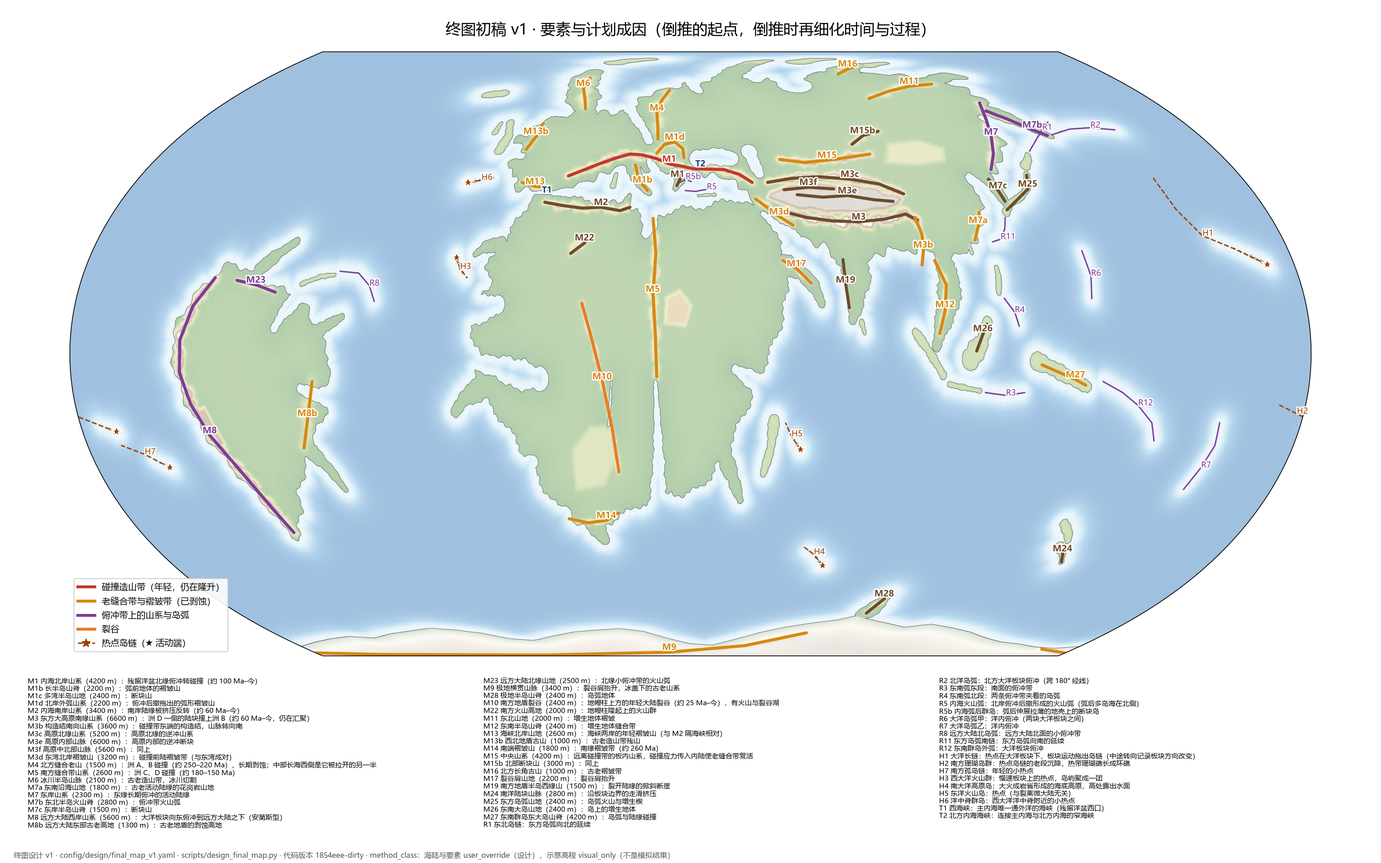
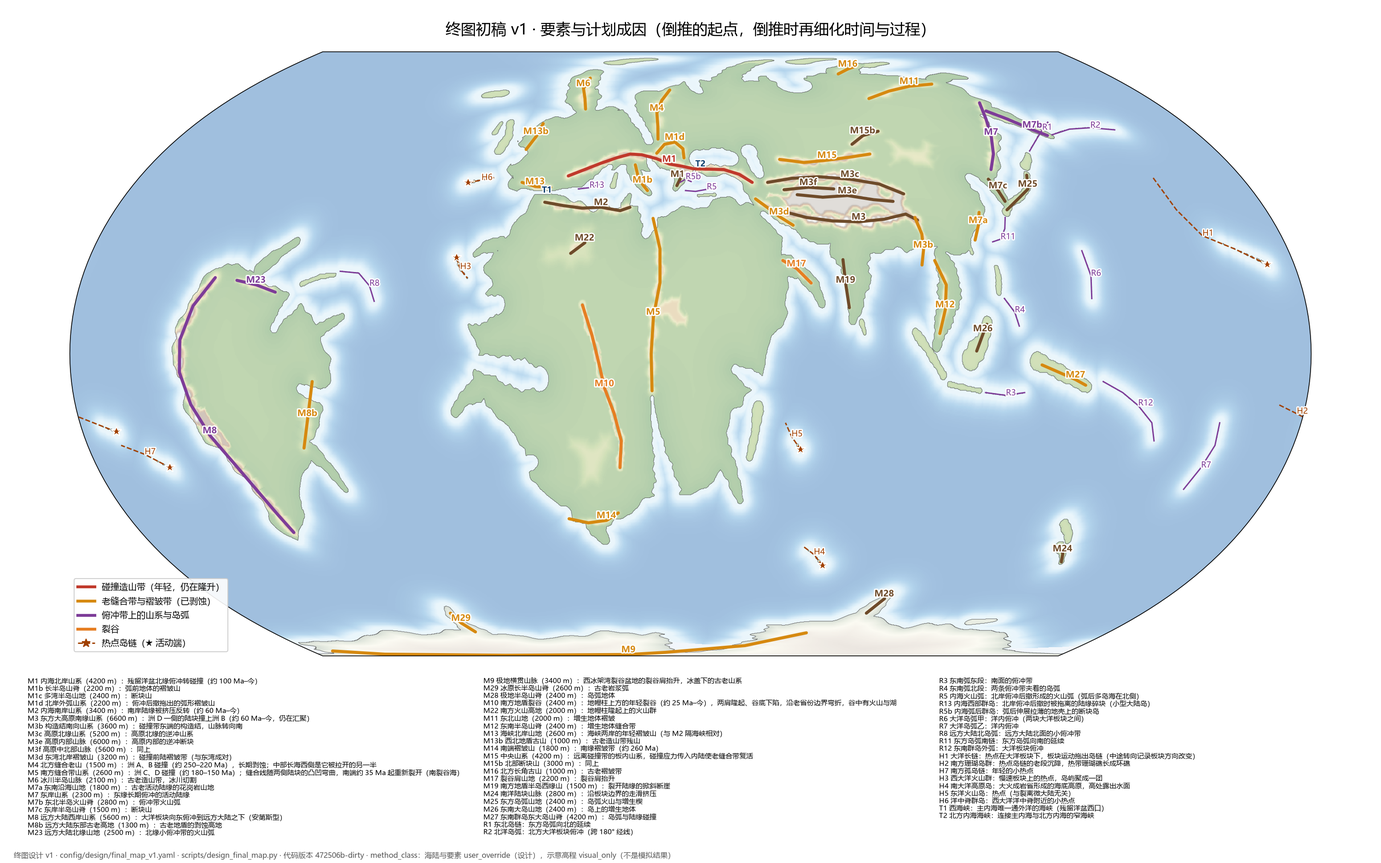
U22 终图初稿 v1 第二轮：南方大陆裂谷改楔形、极地冰架湾、高原与盆地、内海西段，提交用户审看
- 南裂谷海由直缝改为沿缝合带弯折、向南张开的楔形（剪刀式张开）；洲 D 正对裂离微大陆的海岸改为内凹
- 裂谷画成"两肩隆起、谷底下陷"的剖面，两个雁列湖落在谷底；湖只画在图上，不挖陆地掩膜
- 高原轮廓起伏加大、按成因分过渡宽度；新增 4 个盆地与 1 个火山隆起（示意高程 visual_only）
- 极地大陆：海岸加起伏，两个喇叭口冰架湾（冰架前缘平直），新增半岛与冰盖岛
- 内海西段加两个湾和一串西部群岛；标注可指定位置，01/05 图不再压字
- A 层 7 项全部达标（海洋 71.7%，主大陆占陆地 74%，主内海 4.41 Mkm²）

diff --git a/scripts/design_final_map.py b/scripts/design_final_map.py
@@ -123,12 +123,26 @@ def ellipse_mask(grid: LatLonGrid, center_v, along_v, a_km, b_km) -> np.ndarray:
     return m
 
 
-def polar_mask(grid: LatLonGrid, coast) -> np.ndarray:
-    """按经度给出海岸纬度的极地大陆（围绕南极一圈，周期插值）。"""
+def smooth_noise(n: int, step_km: float, amps, sigmas, rng: np.random.Generator) -> np.ndarray:
+    """环形的平滑随机起伏（白噪声做高斯平滑后按标准差归一，再乘幅度）。不用周期正弦：等距的波纹和直线一样假。"""
+    freq = np.fft.rfftfreq(n, d=step_km)
+    off = np.zeros(n)
+    for a, sigma in zip(amps, sigmas):
+        x = np.fft.irfft(np.fft.rfft(rng.normal(size=n)) * np.exp(-0.5 * (2 * np.pi * freq * sigma) ** 2), n)
+        off += a * x / (x.std() + 1e-12)
+    return off
+
+
+def polar_mask(grid: LatLonGrid, coast, rng: np.random.Generator | None = None, amps=(0.0, 0.0)) -> np.ndarray:
+    """按经度给出海岸纬度的极地大陆（围绕南极一圈，周期插值）。
+    rng 给出时海岸纬度加平滑随机起伏（amps 为 km，两档尺度约 220 与 80 km），去掉按 10° 插值的光滑弧线。"""
     c = np.asarray(sorted(coast), float)
     lon = np.concatenate([c[:, 0] - 360, c[:, 0], c[:, 0] + 360])
     lat = np.tile(c[:, 1], 3)
     coast_lat = np.interp(grid.lon, lon, lat)
+    if rng is not None and max(amps) > 0:
+        km_per_col = KM_PER_DEG * np.cos(np.radians(np.abs(coast_lat).mean())) * 360.0 / grid.nx
+        coast_lat = coast_lat + smooth_noise(grid.nx, km_per_col, amps, (220.0, 80.0), rng) / KM_PER_DEG
     return grid.lat[:, None] <= coast_lat[None, :]
 
 
@@ -162,9 +176,11 @@ def meander(line, amp_km: float, rng: np.random.Generator):
     return np.c_[lon, lat].tolist()
 
 
-def spine_mask(grid: LatLonGrid, line, widths, rng: np.random.Generator | None = None) -> np.ndarray:
+def spine_mask(grid: LatLonGrid, line, widths, rng: np.random.Generator | None = None,
+               flat_start: bool = False) -> np.ndarray:
     """沿中轴线、宽度沿轴分段线性渐变的形状（端部为圆头）。
-    rng 给出时宽度沿轴有两档缓慢起伏（波长 500–900 km 与 180–320 km，幅度约 11% 与 7%），避免完全光滑。"""
+    rng 给出时宽度沿轴有两档缓慢起伏（波长 500–900 km 与 180–320 km，幅度约 11% 与 7%），避免完全光滑。
+    flat_start：起点一端平切（不要圆头），用于冰架的前缘冰崖。"""
     p, s = densify(line, 8.0)
     L = max(s[-1], 1.0)
     half_max = float(np.max(widths)) * 0.6
@@ -185,6 +201,8 @@ def spine_mask(grid: LatLonGrid, line, widths, rng: np.random.Generator | None =
         w = w * (1 + 0.11 * np.sin(2 * np.pi * t / l1 + f1) + 0.07 * np.sin(2 * np.pi * t / l2 + f2))
     inside = np.zeros(xyz.shape[0], bool)
     inside[ok] = chord_km(d[ok]) <= w / 2
+    if flat_start:
+        inside[ok] &= idx[ok] > 0
     m[rows] = inside.reshape(rows.size, grid.nx)
     return m
 
@@ -195,14 +213,9 @@ def meander_polygon(poly, rng: np.random.Generator, amps=(70.0, 30.0), protect=(
     loop = list(poly) + [poly[0]]
     p, s = densify(loop, 25.0)
     p, s = p[:-1], s[:-1]
-    # 沿周长的平滑随机起伏（白噪声做环形高斯平滑，不是周期正弦：等距的波纹和直线一样假）
+    # 沿周长的平滑随机起伏
     n = len(p)
-    step = (s[-1] + 25.0) / n
-    freq = np.fft.rfftfreq(n, d=step)
-    off = np.zeros(n)
-    for a, sigma in zip(amps, (220.0, 80.0)):
-        x = np.fft.irfft(np.fft.rfft(rng.normal(size=n)) * np.exp(-0.5 * (2 * np.pi * freq * sigma) ** 2), n)
-        off += a * x / (x.std() + 1e-12)
+    off = smooth_noise(n, (s[-1] + 25.0) / n, amps, (220.0, 80.0), rng)
     for lon, lat, r in protect:
         d = np.arccos(np.clip(p @ unit(lon, lat), -1, 1)) * R_KM
         x = np.clip(d / r, 0, 1)
@@ -239,13 +252,16 @@ def build(design: dict, grid: LatLonGrid, seed: int = 1):
         m = lonlat_mask(grid, poly)
         land |= m
         assign(m, b["continent"])
-    pol = polar_mask(grid, design["polar"]["coast"])
+    pol = polar_mask(grid, design["polar"]["coast"], feature_rng("polar"),
+                     design["polar"].get("meander_km", [0, 0]))
     land |= pol
     cont[pol] = "polar"
     for pn in design.get("peninsulas", []):
         m = spine_mask(grid, pn["line"], pn["width_km"], feature_rng(pn["id"])) & ~land
         land |= m
         assign(m, pn["continent"])
+        if pn["continent"] == "polar":     # 极地大陆的半岛同样盖着冰
+            pol |= m
 
     sea_masks = {}
     for g in design.get("gulfs", []):
@@ -263,6 +279,15 @@ def build(design: dict, grid: LatLonGrid, seed: int = 1):
         land &= ~m
     cont[~land] = ""
 
+    # 湖：不从陆地掩膜里挖掉（与地球数据口径一致：Natural Earth 的陆地含坦噶尼喀湖这类湖），只在图上画成水面
+    lake = np.zeros(shape, bool)
+    for lk in design.get("lakes", []):
+        lake |= spine_mask(grid, lk["line"], lk["width_km"], feature_rng(lk["id"])) & land
+    # 冰架：海湾里浮在海上的冰（掩膜里是海，图上画成冰）
+    shelf = np.zeros(shape, bool)
+    for sh in design.get("ice_shelves", []):
+        shelf |= spine_mask(grid, sh["line"], sh["width_km"], feature_rng(sh["id"]), flat_start=True) & ~land
+
     island_peak = np.zeros(shape)
     symbols = []        # 不进掩膜的环礁、海山（只画符号）
     for isl in design.get("islands", []):
@@ -275,6 +300,8 @@ def build(design: dict, grid: LatLonGrid, seed: int = 1):
             land |= m
             island_peak[m] = np.maximum(island_peak[m], 900.0)
             cont[m] = "island"
+            if isl.get("ice"):          # 冰盖覆盖的岛：图上画成冰
+                pol |= m
             continue
         p, s = densify(isl["line"])
         L = s[-1]
@@ -313,7 +340,7 @@ def build(design: dict, grid: LatLonGrid, seed: int = 1):
                     symbols.append({"lon": float(lon_c), "lat": float(lat_c), "kind": "seamount", "id": isl["id"]})
                 t += (150.0 if t < young else 260.0) * rng.uniform(0.8, 1.2)
     return {"land": land, "cont": cont, "polar": pol & land, "island_peak": island_peak,
-            "symbols": symbols, "sea_masks": sea_masks}
+            "symbols": symbols, "sea_masks": sea_masks, "lake": lake, "shelf": shelf & ~land}
 
 
 def elevation(design: dict, grid: LatLonGrid, b: dict) -> np.ndarray:
@@ -324,16 +351,30 @@ def elevation(design: dict, grid: LatLonGrid, b: dict) -> np.ndarray:
     elev = np.zeros(grid.shape)
     base = 120.0 + 380.0 * (1 - np.exp(-d_land / 500.0))
     elev[land] = base[land]
-    # 高原（边缘 150 km 内渐变）
-    for p in design.get("plateaus", []):
-        m = lonlat_mask(grid, meander_polygon(p["poly"], feature_rng(p["id"]), (60.0, 25.0))) & land
+    def region(p, default_amps):
+        """高原、盆地的范围（轮廓加平滑起伏）与离边缘的平滑渐变（0 -> 1，ramp_km 内，smoothstep）。"""
+        amps = p.get("meander_km", default_amps)
+        m = lonlat_mask(grid, meander_polygon(p["poly"], feature_rng(p["id"]), amps)) & land
         if not m.any():
-            continue
+            return m, None
         d_in = np.nan_to_num(distance_to_set_km(grid, ~m, query=m))
-        ramp = np.clip(d_in / 150.0, 0, 1)
-        elev[m] = np.maximum(elev[m], base[m] + (p["height_m"] - base[m]) * ramp[m])
-    # 山脉（高斯形横剖面，取最大值叠加）
+        x = np.clip(d_in / float(p.get("ramp_km", 150.0)), 0, 1)
+        return m, x * x * (3 - 2 * x)
+
+    # 高原（ramp_km 小 = 陡崖围着的平顶，大 = 动力地形那样的宽缓穹隆）
+    for p in design.get("plateaus", []):
+        m, ramp = region(p, [120.0, 45.0])
+        if ramp is not None:
+            elev[m] = np.maximum(elev[m], base[m] + (p["height_m"] - base[m]) * ramp[m])
+    # 盆地（克拉通内部沉降、前陆盆地：比周围低平）
+    for p in design.get("basins", []):
+        m, ramp = region(p, [150.0, 50.0])
+        if ramp is not None:
+            low = np.minimum(elev[m], p["height_m"])
+            elev[m] = elev[m] + (low - elev[m]) * ramp[m]
+    # 山脉（高斯形横剖面，取最大值叠加）；profile: rift 的裂谷是两侧肩部隆起、中间谷底下陷
     ridge = np.zeros(grid.shape)
+    trough = np.zeros(grid.shape)
     for mt in design.get("mountains", []):
         rng = feature_rng(mt["id"])
         wmax = float(np.max(mt["width_km"]))
@@ -353,10 +394,22 @@ def elevation(design: dict, grid: LatLonGrid, b: dict) -> np.ndarray:
                               + 0.08 * np.sin(2 * np.pi * t / (l2 * 0.8) + f[3]))
         h *= 0.55 + 0.45 * np.sin(np.pi * np.clip(t / L, 0, 1)) ** 0.35
         r = np.zeros(int(q.sum()))
-        r[ok] = h * np.exp(-(chord_km(dc[ok]) / (0.45 * w)) ** 2)
+        dk = chord_km(dc[ok])
+        if mt.get("profile") == "rift":
+            r[ok] = h * np.exp(-((dk - 0.30 * w) / (0.15 * w)) ** 2)
+            g = np.zeros(int(q.sum()))
+            g[ok] = np.exp(-(dk / (0.11 * w)) ** 2)
+            trough[q] = np.maximum(trough[q], g)
+        else:
+            r[ok] = h * np.exp(-(dk / (0.45 * w)) ** 2)
         cur = ridge[q]
         ridge[q] = np.maximum(cur, r)
     elev[land] = np.maximum(elev[land], base[land] + ridge[land])
+    elev[land] *= 1 - 0.5 * trough[land]          # 裂谷谷底约为两肩外侧地面的一半高
+    # 湖面比周围略低（示意），图上画成水面
+    lake = b.get("lake")
+    if lake is not None and lake.any():
+        elev[lake] = np.maximum(5.0, 0.8 * elev[lake])
     # 极地冰盖：冰面高程随离岸距离升高（冰下山脉略微抬升冰面）
     pol = b["polar"]
     ice = 3300.0 * (1 - np.exp(-d_land / 450.0)) + 0.3 * ridge
@@ -394,6 +447,12 @@ def label_points(design: dict):
     for g in design.get("gulfs", []):
         p = np.asarray(g["line"], float)
         out.append(("sea", g["id"], g["name"], *p[len(p) // 2]))
+    for g in design.get("lakes", []):
+        p = np.asarray(g["line"], float)
+        out.append(("lake", g["id"], g["name"], *p[len(p) // 2]))
+    for g in design.get("ice_shelves", []):
+        p = np.asarray(g["line"], float)
+        out.append(("shelf", g["id"], g["name"], *p[len(p) // 2]))
     for s in design.get("seas", []):
         p = np.asarray(s["poly"], float)
         out.append(("sea", s["id"], s["name"], *p.mean(axis=0)))
@@ -406,10 +465,20 @@ def label_points(design: dict):
     for p_ in design.get("plateaus", []):
         p = np.asarray(p_["poly"], float)
         out.append(("plateau", p_["id"], p_["name"], *p.mean(axis=0)))
+    for p_ in design.get("basins", []):
+        p = np.asarray(p_["poly"], float)
+        out.append(("basin", p_["id"], p_["name"], *p.mean(axis=0)))
     for i in design.get("islands", []):
         p = np.asarray(i.get("poly", i.get("line")), float)
         out.append((i["type"], i["id"], i["name"], *(p.mean(axis=0) if "poly" in i else p[len(p) // 2])))
-    return out
+    # yaml 里写了 label_at 的要素用指定位置（避开拥挤处）
+    at = {}
+    for key in ("peninsulas", "gulfs", "lakes", "ice_shelves", "seas", "straits", "mountains", "plateaus",
+                "basins", "islands"):
+        for it in design.get(key, []):
+            if "label_at" in it:
+                at[it["id"]] = it["label_at"]
+    return [(k, f, n, *at[f]) if f in at else (k, f, n, lo, la) for k, f, n, lo, la in out]
 
 
 def figures(design: dict, grid: LatLonGrid, b: dict, elev: np.ndarray, metrics: dict, fields: dict, out: Path,
@@ -443,6 +512,8 @@ def figures(design: dict, grid: LatLonGrid, b: dict, elev: np.ndarray, metrics: 
         pol = b["polar"]
         shade = rgb[pol].mean(axis=1, keepdims=True)
         rgb[pol] = 0.25 * rgb[pol] + 0.75 * np.clip(0.55 + 0.6 * shade, 0, 1)   # 冰盖：偏白
+        rgb[b["shelf"]] = np.array([0.88, 0.93, 0.97])                          # 冰架：浮在海上的冰
+        rgb[b["lake"]] = np.array([0.36, 0.60, 0.82])                           # 湖面
         return rgb
 
     rgb = base_rgb()
@@ -455,6 +526,9 @@ def figures(design: dict, grid: LatLonGrid, b: dict, elev: np.ndarray, metrics: 
               interpolation="nearest")
     ax.contour(grid.lon, grid.lat, land.astype(float), levels=[0.5], colors="#333333", linewidths=0.45,
                transform=PC)
+    if b["lake"].any():
+        ax.contour(grid.lon, grid.lat, b["lake"].astype(float), levels=[0.5], colors="#24507a", linewidths=0.4,
+                   transform=PC)
     ax.gridlines(xlocs=range(-180, 181, 30), ylocs=range(-60, 61, 30), color="#777777", lw=0.3, alpha=0.6)
     sym = b["symbols"]
     for kind, mk, col, ms in (("atoll", "o", "#1f8f8f", 4.5), ("seamount", ".", "#6c8fb3", 3.0)):
@@ -464,13 +538,15 @@ def figures(design: dict, grid: LatLonGrid, b: dict, elev: np.ndarray, metrics: 
             ax.plot(x, y, mk, mfc="none" if kind == "atoll" else col, mec=col, ms=ms, mew=1.0, transform=PC,
                     linestyle="none")
     big = {"A": "洲 A", "B": "洲 B", "C": "洲 C", "D": "洲 D", "far": "远方大陆"}
+    cont_at = design.get("continent_label_at", {})
     for c, name in big.items():
         m = b["cont"] == c
         v = (grid.xyz * (grid.cell_area_km2 * m)[..., None]).sum(axis=(0, 1))
-        lo, la = to_lonlat(v)
+        lo, la = cont_at[c] if c in cont_at else to_lonlat(v)
         ax.text(lo, la, f"{name}\n{areas['continents_km2'].get(c, 0) / 1e6:.0f} 百万 km²", transform=PC,
                 fontsize=15, weight="bold", ha="center", va="center", color="#3a2a10", path_effects=halo)
     style = {"sea": ("#0b3d6e", 9.5), "strait": ("#0b3d6e", 8.5), "plateau": ("#5a3d1e", 9),
+             "lake": ("#0b3d6e", 8), "shelf": ("#2c4a6b", 8.5), "basin": ("#2f5a1e", 8.5),
              "mountain": ("#6b3a12", 8), "peninsula": ("#3d4a1e", 8), "continental": ("#2a4a2a", 8),
              "spine": ("#2a4a2a", 7.5), "arc": ("#5b2a6e", 7.5), "hotspot": ("#8a3b12", 7.5)}
     heights = {m["id"]: m["height_m"] for m in design.get("mountains", [])}
@@ -507,6 +583,8 @@ def figures(design: dict, grid: LatLonGrid, b: dict, elev: np.ndarray, metrics: 
 
     def mt_kind(m):
         c = m["cause"]
+        if m.get("profile") == "rift":
+            return "rift"
         if "碰撞" in c and ("今" in c or "仍在" in c):
             return "collision"
         if "碰撞" in c or "缝合" in c or "古老" in c or "褶皱" in c:
@@ -596,6 +674,11 @@ def figures(design: dict, grid: LatLonGrid, b: dict, elev: np.ndarray, metrics: 
              interpolation="nearest")
     a.contour(grid.lon, grid.lat, land.astype(float), levels=[0.5], colors="#333333", linewidths=0.5, transform=PC)
     a.gridlines(xlocs=range(-180, 181, 30), ylocs=[-80, -70, -60, -50, -40], color="#777777", lw=0.3)
+    for kind, fid, name, lo, la in label_points(design):
+        if la < -45 and kind not in ("arc", "hotspot") and not (kind == "mountain" and heights.get(fid, 0) < 3000):
+            col, fs = style.get(kind, ("#333333", 8))
+            a.text(lo, la, name, transform=PC, fontsize=fs + 1.5, color=col, ha="center", va="center",
+                   path_effects=halo)
     pa = areas["polar_km2"]
     a.set_title(f"南极区：{design['polar']['name']} {pa / 1e6:.1f} 百万 km²（南极洲约 14）· 等面积方位投影", fontsize=13)
     stamp(fig)

diff --git a/PROGRESS.md b/PROGRESS.md
@@ -8,15 +8,17 @@
 ## 当前状态
 
 - 当前阶段：**阶段 1 · 构造演化与多种子筛选（进行中）**。阶段 0 已于 2026-10-22 通过。
-- 当前工作单元：**U22 方法变更 -> 终图设计（2026-10-23 用户决定）**：改为"终图 -> 开发者倒推成因与板块运动 -> 从 300 Ma 正向跑地壳 -> 对照终图修正 -> 细节由过程产生、局部手调"（CLAUDE.md §4，PROGRESS U22）。**用户不手绘：开发者按用户构想画终图初稿**，在终图上核对面积与 A 层，用户看图提修改意见、反复修改到认可，然后倒推。**终图初稿 v1 画到一半（2026-10-23 台式机，用户换设备时按要求提交）**：设计文件 `config/design/final_map_v1.yaml`，出图与核对 `scripts/run.ps1 python -u scripts/design_final_map.py --design v1`（约 45 秒），图 `figures/design/v1/01–05`（这一版的图已强制提交进 Git，方便换机查看）。**还没正式给用户看**，下一步见"进行中"。
+- 当前工作单元：**U22 方法变更 -> 终图设计（2026-10-23 用户决定）**：改为"终图 -> 开发者倒推成因与板块运动 -> 从 300 Ma 正向跑地壳 -> 对照终图修正 -> 细节由过程产生、局部手调"（CLAUDE.md §4，PROGRESS U22）。**用户不手绘：开发者按用户构想画终图初稿**，在终图上核对面积与 A 层，用户看图提修改意见、反复修改到认可，然后倒推。**终图初稿 v1 已提交用户审看（2026-10-23 笔记本）**：设计文件 `config/design/final_map_v1.yaml`，出图与核对 `scripts/run.ps1 python -u scripts/design_final_map.py --design v1`（台式机约 45 秒，笔记本约 100 秒），图 `figures/design/v1/01–05`（这一版的图强制提交进 Git，方便换机查看）。**等用户看 01、02、04、05 提修改意见**，待用户决定的两点见"进行中"。
 - 上一工作单元：**1.2c U21 四个洲分层拼合（暂停，被 U22 取代；代码保留，引擎、旋转文件、分段路线、速度审计可复用）**：剧本生成器改成"卫星陆块拼到洲核心 -> 两个洲焊成一组 -> 第二组拼到第一组上夹出主内海"，闭合式拼合，极地/次大陆先随行后离开；第一轮完整模拟**世界 8 第一次 A 层全部达标**，但 4/8 仍破碎、主大陆占比 1/8 达标。第二轮（焊合只认粗壮部分、两组大段焊合、极地面积对齐、微大陆裂离生效、限速与速度审计）只做了规划自查、没跑模拟；世界 6 的条带查明是引擎岛弧过程的假象。**用户认为项目卡进度，打算改方案（U22），下次开工先听用户的新方案。**图 `figures/stage1/scenario/`（`02_worlds_0Ma.png` 联系表、`06_main_continent_welds.png` 按洲着色的焊合诊断；`scripts/tectonics_scenario.py --runs 1:1,2:1,3:1,4:1,5:1,6:1,7:1,8:1 --workers 4`，前史有缓存时台式机约 35 分钟；之后 `scripts/tectonics_main_continent_diag.py --worlds 1-8` 约 1 分钟）。300 Ma 初始大陆（U20 修订二）用户已同意继续（2026-10-22），图 `figures/stage1/prehistory/` 01–07（`scripts/tectonics_prehistory.py --seeds 1-8`，笔记本约 15 分钟）。方法与工作单元划分见 `docs/tectonics_method.md`；检查点图（本地生成，不进 Git）：1.2c `figures/stage1/scenario/`（`scripts/tectonics_scenario.py`，约 5 分钟），1.2b `figures/stage1/prehistory/`（`scripts/tectonics_prehistory.py`，8 个种子笔记本约 6 分钟），1.2a `figures/stage1/synthetic/`（`scripts/tectonics_synthetic.py`，约 1 分钟）。1.1 对比报告 `docs/stage1_method_comparison.md`。
   - 阶段 0 的图组（本地生成，不进 Git）：地球 `figures/stage0/earth_2048x1024/index.html`、圆润世界 `figures/stage0/rounded_control/index.html`、噪声海岸世界 `figures/stage0/noise_control/index.html`；校准报告 `reviews/stage0_calibration.md`；奇景覆盖度 `docs/archetype_coverage.md`。
-- 当前使用的机器：台式机（HANS600452）
+- 当前使用的机器：笔记本（Ezreal）
 - 最近一次提交：见 `git log -1`；已推送到 `origin/main`（https://github.com/1521183894w-ux/mythic-planet-lab）
 
 ## 已完成
 
 （按时间倒序，每条一行：日期 · 工作单元 · 简述 · 产出路径）
+
+- 2026-10-23 · U22 终图初稿 v1 第二轮（笔记本，已提交用户审看）· 先跑上一班改了没跑的代码（轮廓起伏改平滑噪声、高原轮廓加起伏）：A 层仍 7 项达标，C 西岸、远方大陆东岸的等距波纹消失。按"多样美观科学"自查后修了以下几处。① 南方大陆：南裂谷海原是 110–520 km 宽、3000 km 长的南北向直缝（像刀割），改为沿缝合带弯折、向南张开的楔形（北端 90 km、南口 950 km，按"旋转极在北端附近的剪刀式张开"，比斯开湾式）；缝合带山系 M5 也随两侧陆块弯曲；洲 D 正对裂离微大陆的海岸原是外凸的，改成与微大陆对应的内凹缺口，微大陆移近（海峡约 700 km，莫桑比克海峡式）。② 裂谷：原来画成一条直的隆起山脊、裂谷湖是一条不在山脊上的白线，改为弯折的"两肩隆起、谷底下陷"剖面（出图新增 `profile: rift`），两个雁列湖落在谷底；湖不再从陆地掩膜里挖掉（与地球 Natural Earth 口径一致），只在图上画成水面。③ 高原原是直边多边形色块：轮廓起伏加大，过渡宽度按成因分开（动力地形 450 km 宽缓穹隆、玄武岩高原 200 km、碰撞高原 170 km），东方大高原东北角凹进一个高原内部盆地；新增 4 个盆地（洲 C 中央盆地、洲 D 内陆盆地、洲 B 北方大低地、远方大陆东部大盆地）和 1 个火山隆起，洲 C 内部不再是一片空白绿色（都是示意高程 visual_only，成因写进 yaml）。④ 极地大陆原是一朵圆鼓鼓的"云"（圆润世界的典型观感）：海岸加平滑起伏，挖出两个喇叭口冰架湾（内半部是冰架，前缘平直冰崖），新增冰原长半岛与冰盖岛，半岛也盖冰，横贯山脉改沿西冰架湾东岸。⑤ 内海西段两岸是两条平行直线（像运河）：加内海西北湾、内海西南湾和一串西部群岛（马略卡大小）。⑥ 标注：可在 yaml 指定位置（`label_at`、`continent_label_at`），01 图不再互相压字，05 图加了标注。最后一次运行 A 层 7 项全部达标：海洋 71.7%，主大陆 106 Mkm²（占陆地 74%），亚大陆 4 个（58.2/38.9/6.4/1.7），主内海 4.41 Mkm²、1 条海峡通外洋、长宽比 3.3、接壤 3 个亚大陆，纬度 79°N–43°S，极地大陆 13.0 Mkm²，软限制全部满足；各洲 A 7.8、B 39.3、C 33.0、D 25.6、远方大陆 21.2 Mkm²。没有为指标改任何东西 · `config/design/final_map_v1.yaml`、`scripts/design_final_map.py`、`data/worlds/design_v1/params.json`、图 `figures/design/v1/`
 
 - 2026-10-23 · U22 终图初稿 v1（台式机，进行中，用户换设备时按要求提交）· 按用户构想（U21 示意图：四个洲围着主内海，西海峡、东地峡；半岛、大陆岛、岛链多；大洋零星群岛与孤岛）画终图。形状做法：大陆粗轮廓多边形 + 沿弯曲中轴、宽度分段渐变的半岛/海湾/岛/山脉（意大利、朝鲜、堪察加式），每个要素写计划成因；示意高程只为看图（visual_only）。第一版手写少量顶点，出图就是圆润色块世界（大块凸多边形、直线山带），没有给用户看，推倒重画；对照"同样概括程度的地球"（04 图）后加密要素、给复杂度按成因分区（内海、东岸岛弧、东南群岛、北极多、旧被动陆缘少）。最后一次运行（16:52）A 层 7 项全部达标：海洋 71.6%，主大陆 107 Mkm²（占陆地 74%），亚大陆 4 个（58.6/38.6/6.4/1.6），主内海 4.16 Mkm²、1 条海峡通外洋、主轴长宽比 3.3、接壤 3 个亚大陆，纬度 79°N–43°S，极地大陆 13.4 Mkm²，远方大陆（次大陆）21 Mkm²，北极圈以北主大陆 2.4%。各洲 A 7.7、B 39.6、C 33.0、D 25.9 Mkm²。核对中发现并修正：西海峡宽 117–145 km 贴着 150 km 门槛，A 层把海峡中段判成独立小海，改窄到约 90 km · `config/design/final_map_v1.yaml`、`scripts/design_final_map.py`、`data/worlds/design_v1/params.json`、图 `figures/design/v1/`
 
@@ -75,9 +77,9 @@
 - **用户的总原则**（转录自对话，2026-10-23）："记住多样美观科学"。开发者据此：选方案、调参数、汇报结果时三条同时检查——多样（地貌、海岸、岛屿与群岛类型对齐地球，对照原型库的经典地貌覆盖）、美观（先看图像不像真实星球：无直线条带、多边形直边、圆润海岸、一盘散沙式的大陆）、科学（形态由过程产生，method_class 诚实）；三者冲突时说明取舍，不为一条牺牲另一条。
 - 两台电脑的环境与地球数据都已就绪，以后换机只需"拉取最新，然后继续"。（换机后要先重跑 1.1 原型才能看图：`spikes/stage1_methods/README.md`，台式机约 7 分钟。）
 - **U20 修订二已实施，用户同意继续 1.2c**（2026-10-22）。剩下的穿省份直线段（最长 0.2–1.1 千 km）经开发者评估在科学允许范围内（运动学上必须、地球上也有同量级的直海岸），不再处理；"所有裂谷同时张开"记为已知局限，若 0 Ma 上看得出痕迹再改成分批裂开。筛查 `scripts/tectonics_prehistory_screen.py 6 4 1,2,3,4,5,6,7,8`（笔记本约 10 分钟），L6 结果对 L7 有效。
-- **终图初稿 v1 的交接（2026-10-23 台式机 -> 换设备）**：
-  - 已提交的图是 16:52 那次运行的结果。之后代码又改了两处、**没有运行**：大陆轮廓的起伏由两档周期正弦改为平滑随机噪声（正弦在 C 西岸、远方大陆东岸出现等距波纹，看起来假），高原轮廓也加起伏（东方大高原是灰色椭圆）。换机后先重跑上面的命令，确认 A 层仍 7 项达标（起伏改了可能碰到海峡、地峡、颈部宽度，保护区见 yaml 的 `meander_protect`），再看 01 图。
-  - 开发者自评仍要改的：洲 C、D 合起来仍是一大块（D 东岸、C 西南岸偏长偏平）；洲 A 偏小（7.7 Mkm²，用户的构想是四个洲）；01 图内海一带标注挤。改到自己看着像样后，把 01（终图）、02（要素与计划成因）、04（与同样概括程度的地球对照）、05（南极区）给用户看，请用户提修改意见。
+- **终图初稿 v1 已提交用户审看（2026-10-23 笔记本）**：请用户看 `figures/design/v1/` 的 01（终图）、02（要素与计划成因）、04（与同样概括程度的地球对照）、05（南极区），提修改意见；用户认可后进入倒推（成因与板块运动）。
+  - 待用户决定（叙事与审美，开发者不擅自改）：① **洲 C+D 合起来约 58 Mkm²，仍是一整块**（非洲约 30），这次只把南裂谷海改成向南张开的楔形；若想让 C、D 读起来更像两个洲，可以让南裂谷海或内海南湾再往里伸、两洲只以较窄的陆颈相连（阿拉伯—非洲式，亚大陆会由 4 个变 5 个），或保持现在的"焊死的巨大南方大陆"（内陆会有大片干旱区）；② **洲 A 只有 7.8 Mkm²**（欧洲约 10），比另三个洲小得多，要不要扩大。
+  - 开发者自评的其他局限：洲 D 东岸（东方湾以南）与远方大陆西岸仍是长而平滑的弧（被动陆缘、安第斯型陆缘在地球上也较平直，几百公里以下的弯曲留给模拟）；北半球高纬缺少地球加拿大北极群岛那样的大群岛；东方大高原在配色上仍是一块灰色。
   - world-reviewer 没有调用：这是给用户审的设计草图，不是候选世界；倒推、正向演化出世界后再按评审协议评。
   - `scripts/design_template.py`（手绘模板）没有提交，用户不手绘，不再需要；投影换算的写法以后要在图上圈改时可参考。
 - **U22 已定，进入终图设计（2026-10-23）**：开发者按用户构想（U21 示意图与要求、U22 原话、`docs/vision.md`）画终图初稿：① 设计文件（洲、内海、山脉、岛弧、岛链等要素及其类型与计划成因，图层 `user_override`）；② 在终图上量面积、核对 A 层（海洋比例、主大陆占比、亚大陆、主内海形状与接壤、纬度、极地大陆）并出图，附同样概括程度的地球作对照；③ 用户看图提修改意见，反复修改到认可；④ 之后倒推成因与板块运动、正向跑地壳，工作单元划分到时写进 `docs/tectonics_method.md` §4。到第一张可与现在对比的 0 Ma 图估计 3–4 个工作单元。
